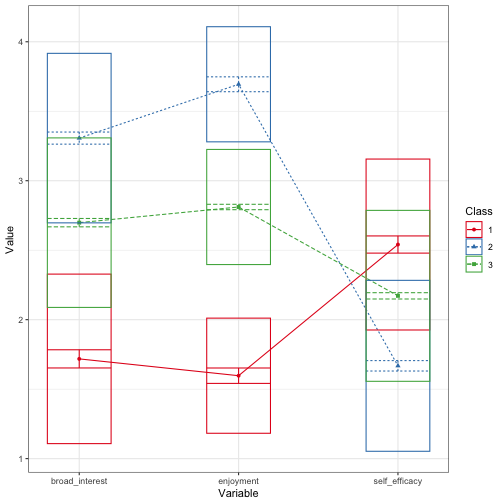
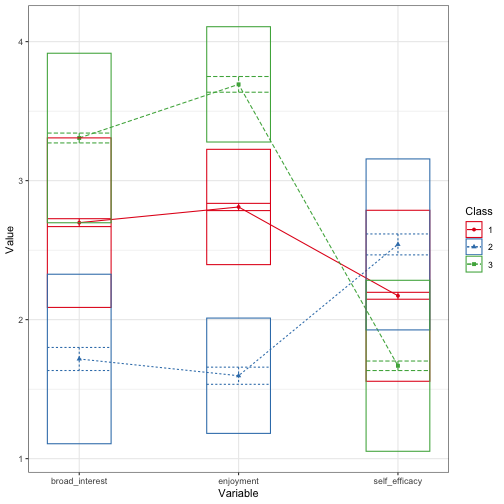
address all bugs

diff --git a/lab-4/ll-4-overview-presentation.html b/lab-4/ll-4-overview-presentation.html
@@ -92,7 +92,7 @@ class: clear, title-slide, inverse, center, top, middle
 
 .pull-right[
 
-&lt;img src="img/IMG_8152.jpeg" width="60%" /&gt;
+&lt;img src="img/IMG_8152.jpeg" width="100%" /&gt;
 
 ]
 
@@ -294,7 +294,7 @@ class: clear, inverse, center, middle
 
 # Estimating 3 groups
 
-We can see all three steps in this code chunk
+We can see all three steps (select variables, estimate profiles, interpret results) in this code chunk
 
 
 ```r
@@ -329,7 +329,6 @@ pisaUSA15 %&gt;%
 ```r
 pisaUSA15 %&gt;%
     select(broad_interest, enjoyment, self_efficacy) %&gt;%
-    single_imputation() %&gt;%
     estimate_profiles(1:5) %&gt;% # note: we can also specify different model paramaterizations
     compare_solutions(statistics = c("AIC", "BIC"))
 ```
@@ -338,6 +337,10 @@ pisaUSA15 %&gt;%
 
 # Comparing profiles
 
+
+```
+## Warning in estimate_profiles_mclust(df_full, n_profiles, model_numbers, : The mclust algorithm does not allow for missing data. Some rows were omitted from analysis. Consider using Mplus, which accounts for cases with partially missing data, or use a non-parametric single imputation technique prior to analysis, such as the R-package 'missForest'.
+```
 
 ```
 ## Warning: The solution with the maximum number of classes under consideration was
@@ -349,11 +352,11 @@ pisaUSA15 %&gt;%
 ## Compare tidyLPA solutions:
 ## 
 ##  Model Classes AIC       BIC      
-##  1     1       37861.801 37901.703
-##  1     2       35421.538 35488.041
-##  1     3       34735.781 34828.886
-##  1     4       32820.103 32939.809
-##  1     5       32482.624 32628.931
+##  1     1       35664.880 35704.418
+##  1     2       33290.010 33355.906
+##  1     3       32662.919 32755.172
+##  1     4       30712.776 30831.387
+##  1     5       30333.396 30478.365
 ## 
 ## Best model according to AIC is Model 1 with 5 classes.
 ## Best model according to BIC is Model 1 with 5 classes.
@@ -363,13 +366,42 @@ pisaUSA15 %&gt;%
 
 ---
 
+# Saving the output of an analysis
+
+Let's say we selected a model with _four_ profiles.
+
+
+```
+## Warning in estimate_profiles_mclust(df_full, n_profiles, model_numbers, : The mclust algorithm does not allow for missing data. Some rows were omitted from analysis. Consider using Mplus, which accounts for cases with partially missing data, or use a non-parametric single imputation technique prior to analysis, such as the R-package 'missForest'.
+```
+
+```
+## tidyLPA analysis using mclust: 
+## 
+##  Model Classes AIC      BIC      Entropy prob_min prob_max n_min n_max BLRT_p
+##  1     4       30712.73 30831.34 0.94    0.95     0.98     0.08  0.54  0.01
+```
+ 
+---
+
+# Saving the output of an analysis
+
+
+```
+## Warning in estimate_profiles_mclust(df_full, n_profiles, model_numbers, : The mclust algorithm does not allow for missing data. Some rows were omitted from analysis. Consider using Mplus, which accounts for cases with partially missing data, or use a non-parametric single imputation technique prior to analysis, such as the R-package 'missForest'.
+```
+
+![](ll-4-overview-presentation_files/figure-html/unnamed-chunk-9-1.png)&lt;!-- --&gt;
+
+---
+
 # Other functions for working with LPA output
 
 
 ```r
-get_estimates(m3)
-get_data(m3)
-get_fit(m3)
+get_estimates(m4)
+get_data(m4)
+get_fit(m4)
 ```
 
 ---
@@ -385,7 +417,7 @@ class: clear, center
 
 ## .font130[.center[**Thank you!**]]
 &lt;br/&gt;
-.center[&lt;img style="border-radius: 80%;" src="img/jr-cycling" height="200px"/&gt;&lt;br/&gt;**Dr. Joshua Rosenberg**&lt;br/&gt;&lt;mailto:jmrosenberg@utk.edu&gt;]
+.center[&lt;img style="border-radius: 80%;" src="img/jr-cycling.jpeg" height="200px"/&gt;&lt;br/&gt;**Dr. Joshua Rosenberg**&lt;br/&gt;&lt;mailto:jmrosenberg@utk.edu&gt;]
     </textarea>
 <style data-target="print-only">@media screen {.remark-slide-container{display:block;}.remark-slide-scaler{box-shadow:none;}}</style>
 <script src="https://remarkjs.com/downloads/remark-latest.min.js"></script>
